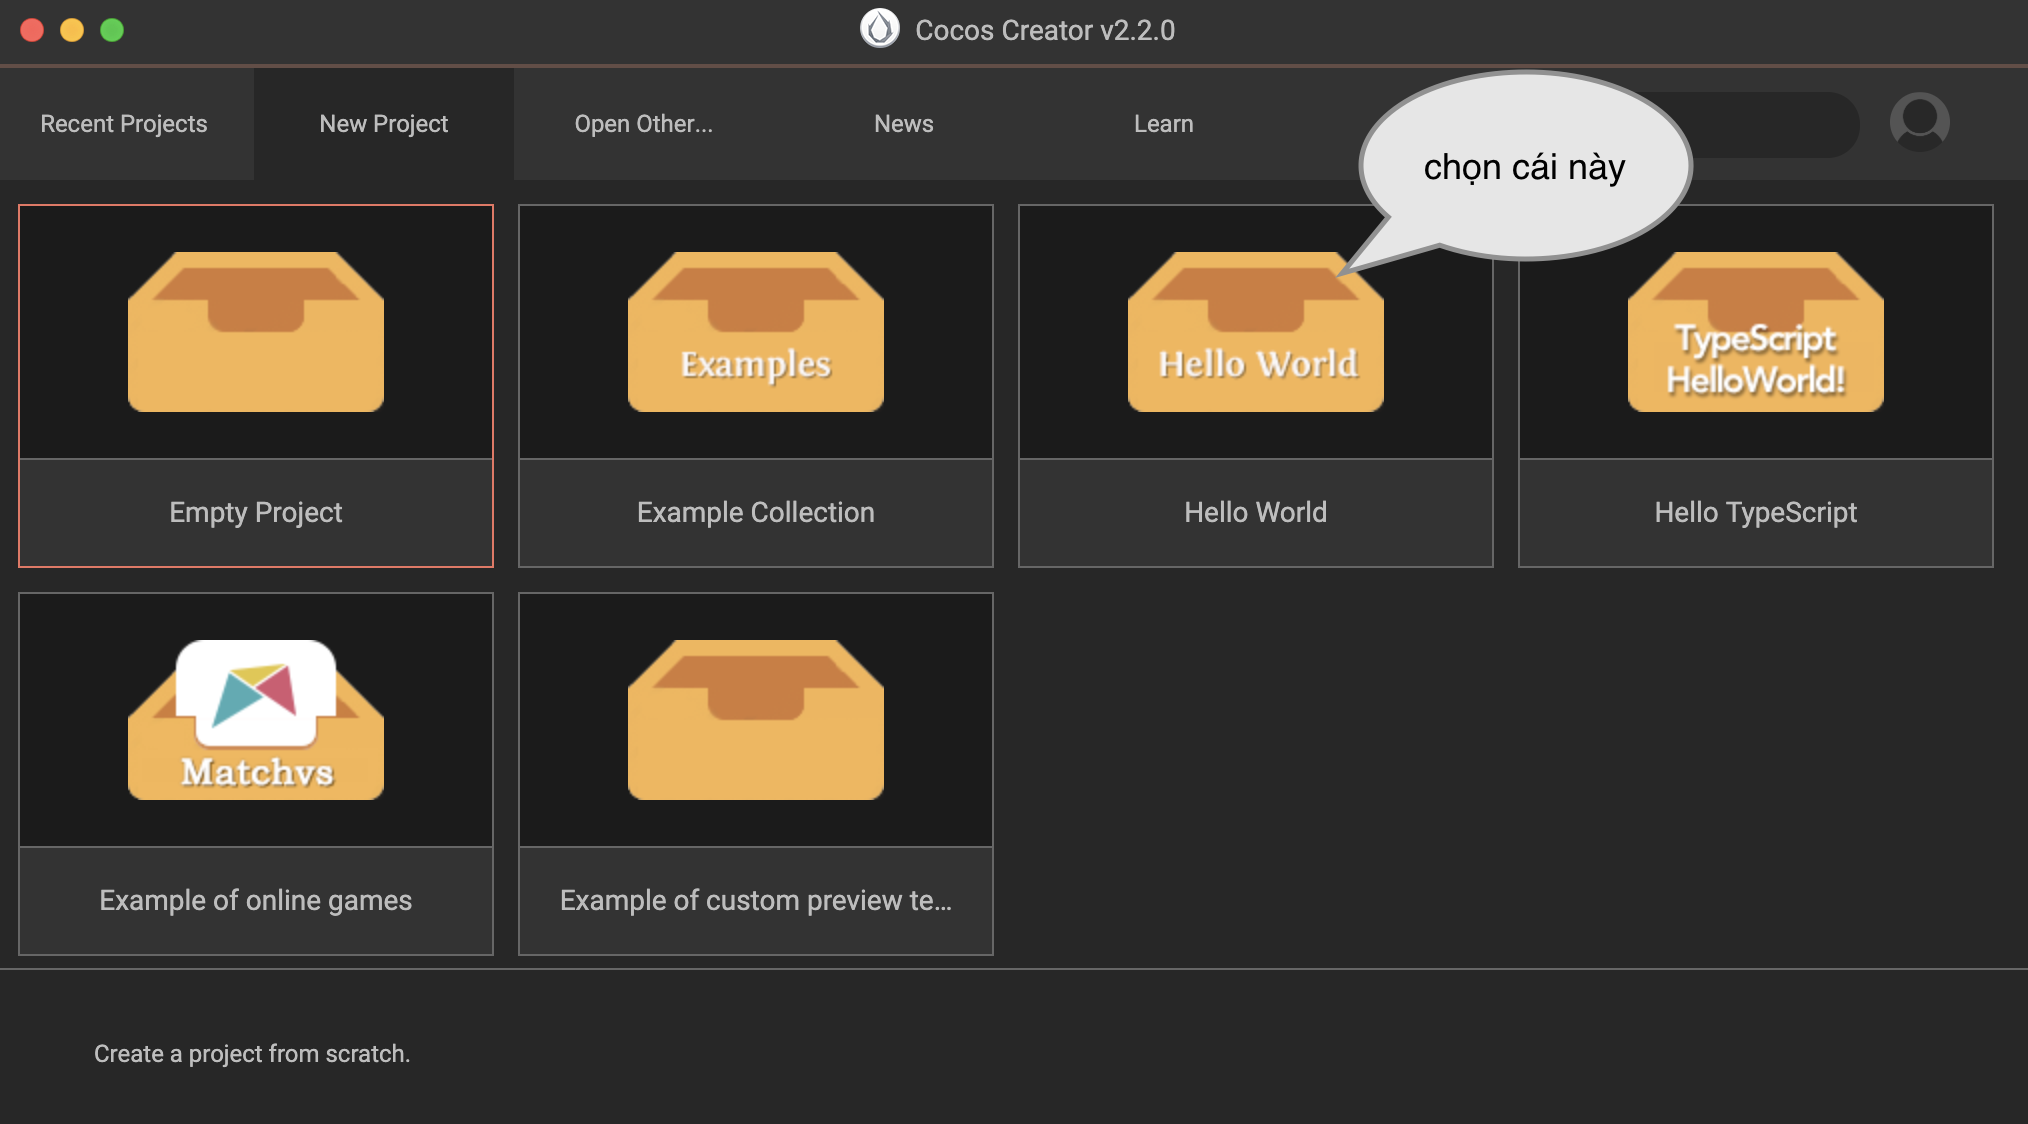
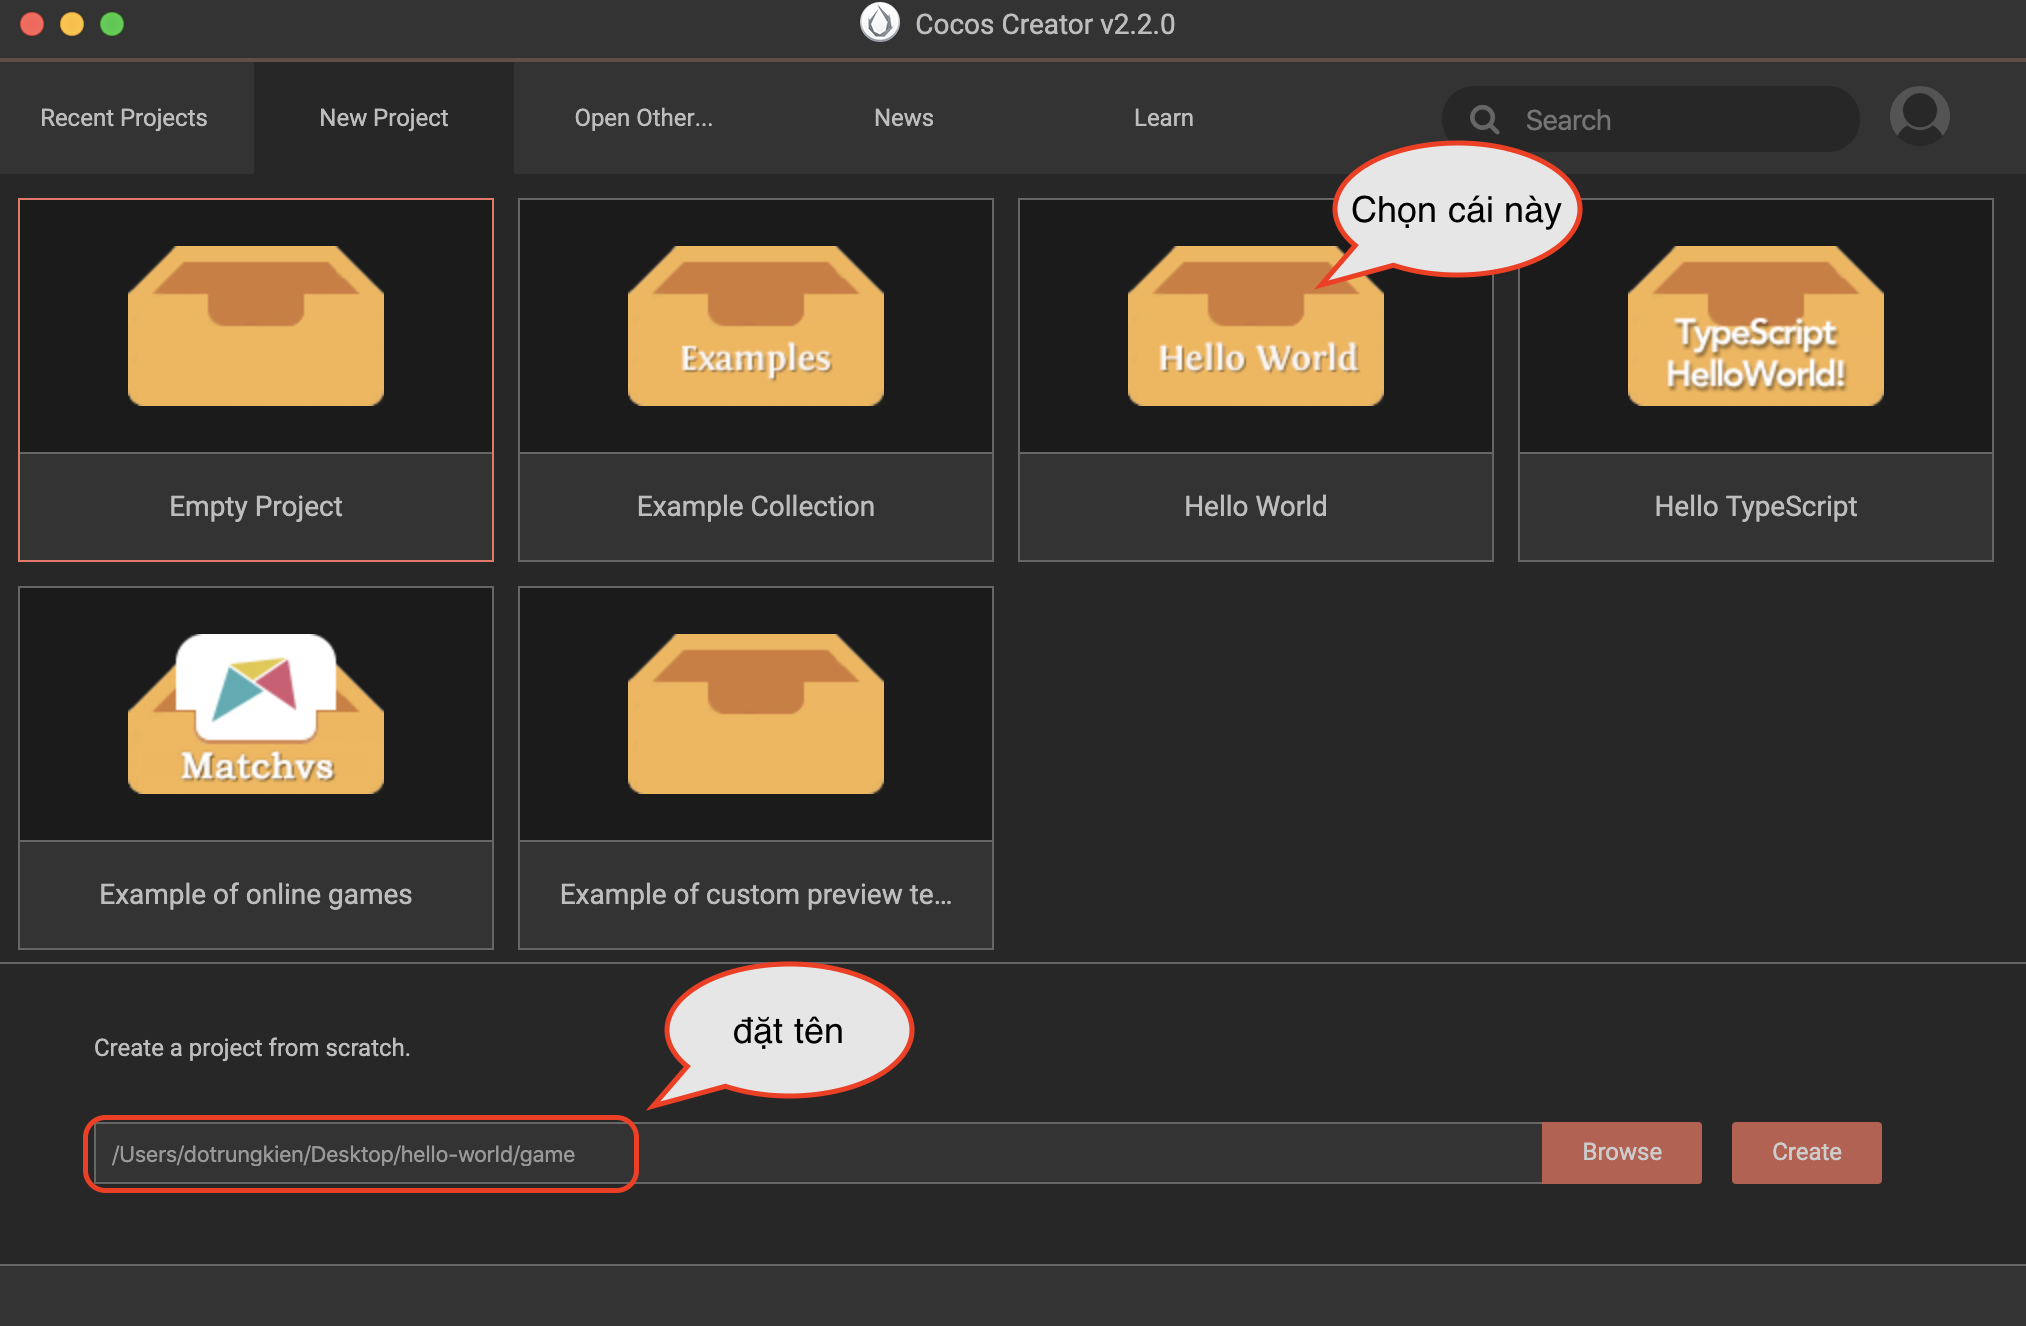
update post

diff --git a/_drafts/2020-01-02-dapp-with-cocos.md b/_drafts/2020-01-02-dapp-with-cocos.md
@@ -43,21 +43,21 @@ Download và cài đặt tại đây: [https://www.cocos.com/en/creator](https:/
 
 Ứng dụng của chúng ta sẽ có 2 phần, phần `contract` và phần `game`, ta sẽ lần lượt tạo từng folder:
 
-1. Tạo thư mục gốc của ứng dụng:
+1 - Tạo thư mục gốc của ứng dụng:
 
 ```sh
 mkdir hello-world && cd hello-world
 ```
 
-2. tạo thư mục `contract`:
+2 - tạo thư mục `contract`:
 
 ```sh
 mkdir contract && cd contract
 ```
 
-3. init truffle project
+3 - init truffle project
 
-```
+```sh
 truffle init
 ```
 
@@ -65,13 +65,40 @@ khi này chúng ta sẽ có được một project để bắt đầu code contr
 
 ![truffle-init]({{ site.url }}/assets/images/truffle-init.png)
 
-4. init game project
+4 - init game project
 
-Ta sẽ khởi động Cocos Creator lên và tạo một project mới, để project đơn giản và dễ hiểu nhất ta sẽ tạo project theo template "Hello-world"
+Ta sẽ khởi động Cocos Creator lên và tạo một project mới, để project đơn giản và dễ hiểu nhất ta sẽ tạo project theo template `Hello-world`
 
 ![hello-world]({{ site.url }}/assets/images/hello-world.png)
 
+OK ta đã sẵn sang để vào bước phát triển rồi.
+
 ## Contract Development
+
+Trong bài này ta sẽ làm một contract vô cùng đơn giản, chỉ có 2 phương thức và 1 biến mà thôi.
+
+Vào thư mục `contracts` và tạo một file mới `SimpleStore.sol` với nội dung như sau:
+
+```js
+pragma solidity ^0.5.0;
+
+contract SimpleStore {
+  uint256 value;
+
+  event NewValueSet(uint256 indexed _value, address _sender);
+
+  function set(uint256 newValue) public {
+    value = newValue;
+    emit NewValueSet(value, msg.sender);
+  }
+
+  function get() public view returns (uint256) {
+    return value;
+  }
+}
+```
+
+ở đây ta sẽ dùng một phiên bản solidity 0.5.0.
 
 ## Game Development
 
